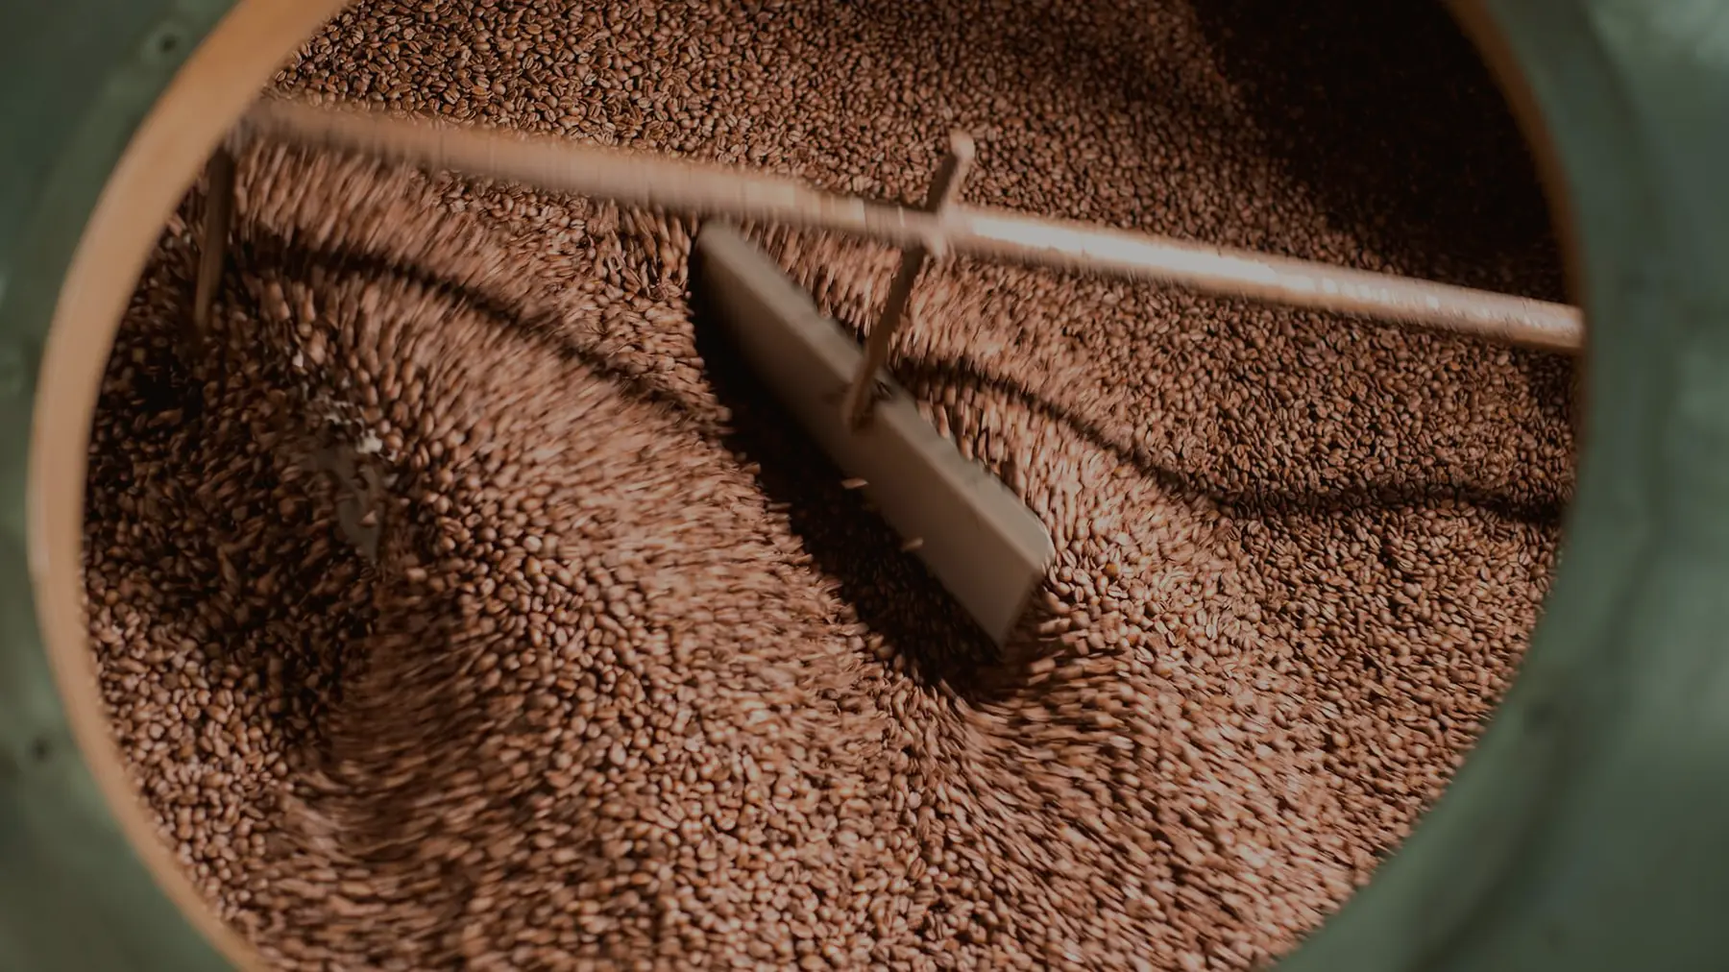
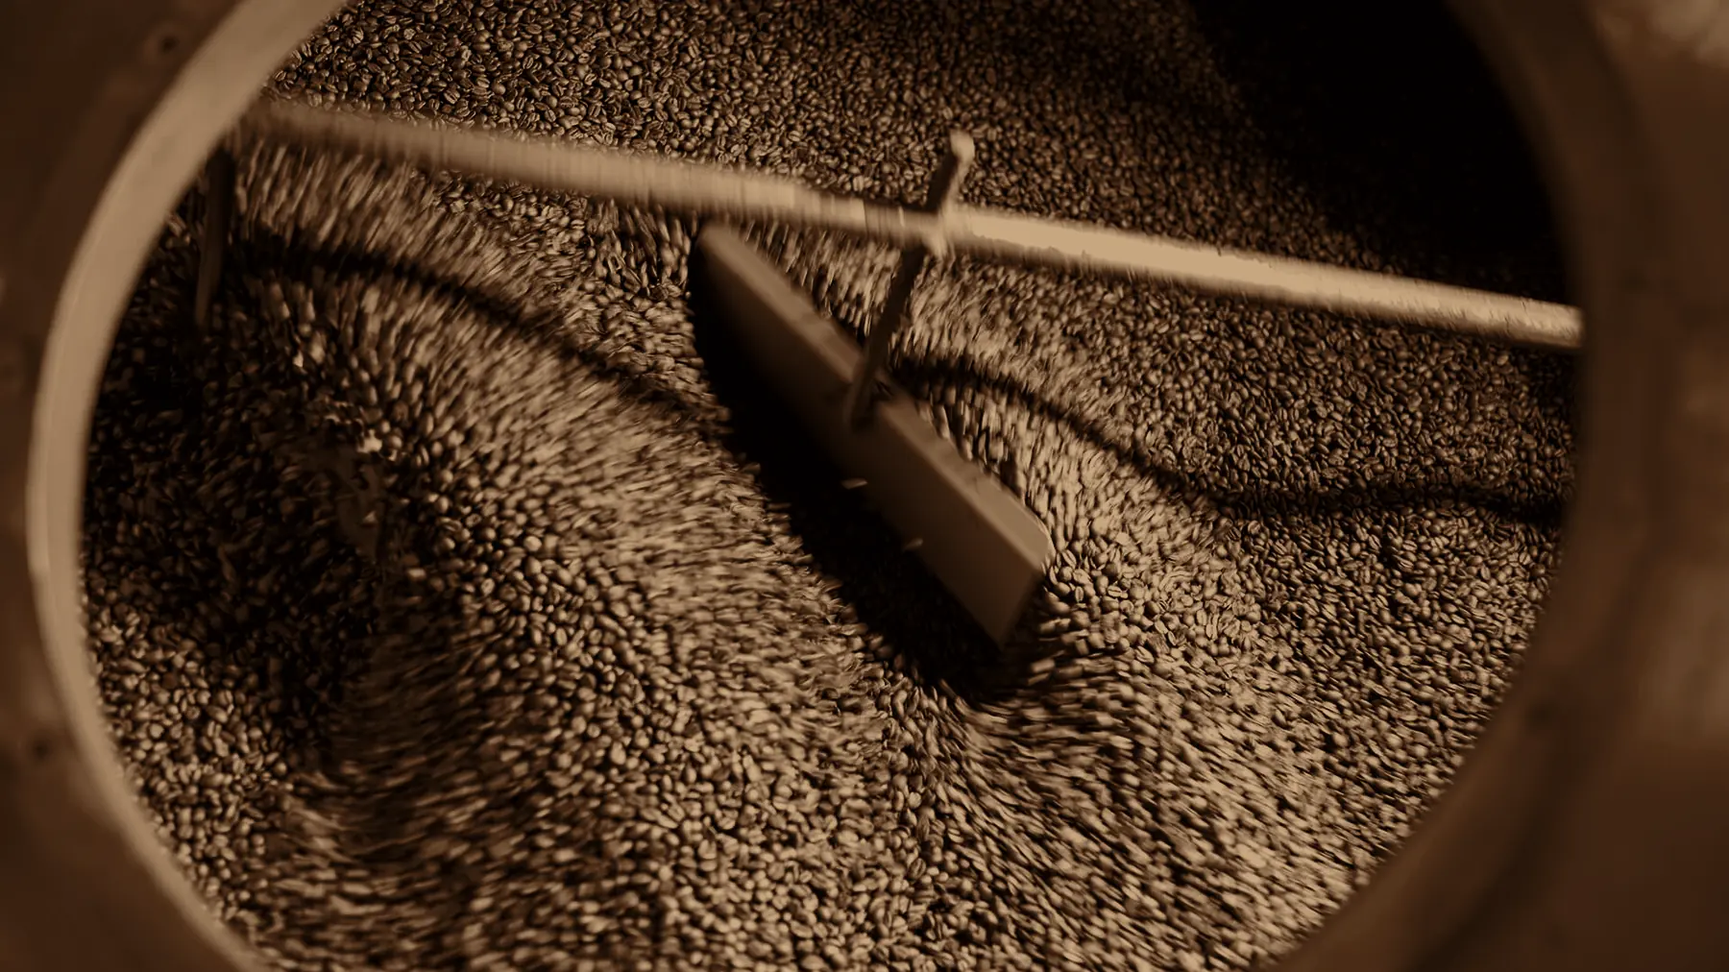
Dark sepia photo grade, origins show their own coffees, hot/cold/snack sections open on click

diff --git a/js/app.js b/js/app.js
@@ -42,6 +42,12 @@
     else scrollTo({ top: 0, behavior: reduce ? 'auto' : 'smooth' });
   });
 
+  /* ---------- recipe lookups ---------- */
+  const all = [];
+  Object.entries(D.recipes).forEach(([kind, groups]) => Object.entries(groups).forEach(([g, list]) => list.forEach(r => all.push({ ...r, kind, g }))));
+  const byId = id => all.find(r => r.id === id);
+  const kindOf = id => id[0] === 'c' ? 'cold' : id[0] === 's' ? 'snack' : 'hot';
+
   /* ---------- origins ---------- */
   const ogList = $('#ogList'), ogCard = $('#ogCard'), ogBg = $('#ogBg');
   D.regions.forEach((r, i) => {
@@ -60,11 +66,13 @@
     ogCard.innerHTML = `<h3>${r.name}</h3><p class="tag">${r.tag}</p><p>${r.text}</p>
       <div class="chips">${r.notes.map(n => `<span>${n}</span>`).join('')}</div>
       <div class="meta"><div><b>Altitude</b>${r.alt}</div><div><b>Process</b>${r.process}</div><div><b>Best for</b>${r.best}</div></div>
-      <div class="bars">${bar('Acidity', r.bars.acidity)}${bar('Body', r.bars.body)}${bar('Sweetness', r.bars.sweetness)}</div>`;
+      <div class="bars">${bar('Acidity', r.bars.acidity)}${bar('Body', r.bars.body)}${bar('Sweetness', r.bars.sweetness)}</div>
+      <div class="og-coffees"><b>Coffees from ${r.name}</b><div class="og-cl">${r.coffees.map(id => { const c = byId(id); return `<button class="og-c" data-id="${id}"><span>${c.name}</span><small>${c.time}</small></button>`; }).join('')}</div></div>`;
     requestAnimationFrame(() => requestAnimationFrame(() => $$('.bar i', ogCard).forEach(b => b.style.width = b.dataset.w + '%')));
     if (hasG) G.fromTo(ogCard.children, { y: 18, opacity: 0 }, { y: 0, opacity: 1, duration: .6, stagger: .06, ease: 'power3.out', overwrite: true });
   };
   ogList.addEventListener('click', e => { const b = e.target.closest('button'); if (b) showRegion(+b.dataset.i); });
+  ogCard.addEventListener('click', e => { const b = e.target.closest('.og-c'); if (b) openModal([b.dataset.id]); });
   ogList.addEventListener('mouseover', e => { const b = e.target.closest('button'); if (b && fine) showRegion(+b.dataset.i); });
   showRegion(0);
   if (fine && hasG && !reduce) {
@@ -95,11 +103,6 @@
   rRange.addEventListener('input', roastRender); roastRender();
 
   /* ---------- recipe sections (hot, cold, snacks) ---------- */
-  const all = [];
-  Object.entries(D.recipes).forEach(([kind, groups]) => Object.entries(groups).forEach(([g, list]) => list.forEach(r => all.push({ ...r, kind, g }))));
-  const byId = id => all.find(r => r.id === id);
-  const kindOf = id => id[0] === 'c' ? 'cold' : id[0] === 's' ? 'snack' : 'hot';
-
   $$('.rec').forEach(sec => {
     const kind = sec.dataset.kind, grid = $('.rec-grid', sec), tg = $('.toggle', sec), thumb = $('.thumb', tg);
     const labels = tg.dataset.labels.split('|'), btns = $$('button', tg);
@@ -123,6 +126,18 @@
       c.style.setProperty('--mx', (e.clientX - r.left) + 'px'); c.style.setProperty('--my', (e.clientY - r.top) + 'px');
     });
     grid.addEventListener('click', e => { const c = e.target.closest('.card'); if (c) openModal([c.dataset.id]); });
+    const openBtn = $('.rec-open', sec), body = $('.rec-body', sec); let isOpen = false;
+    $('.ro-count', openBtn).textContent = `· ${D.recipes[kind].a.length + D.recipes[kind].b.length} recipes`;
+    const setOpen = v => {
+      isOpen = v; openBtn.setAttribute('aria-expanded', v); openBtn.classList.toggle('on', v);
+      $('.ro-label', openBtn).textContent = v ? 'Hide recipes' : 'See recipes';
+      if (hasG && !reduce) {
+        G.to(body, { height: v ? 'auto' : 0, duration: .9, ease: 'power3.inOut', onComplete() { place(); ScrollTrigger.refresh(); } });
+        if (v) G.fromTo($$('.card', grid), { y: 30, opacity: 0 }, { y: 0, opacity: 1, duration: .7, stagger: .05, delay: .35, ease: 'power3.out' });
+      } else { body.style.height = v ? 'auto' : '0'; place(); }
+    };
+    openBtn.addEventListener('click', () => setOpen(!isOpen));
+    $('.h-big', sec).addEventListener('click', () => setOpen(!isOpen));
     place(); addEventListener('resize', place);
     if (document.fonts && document.fonts.ready) document.fonts.ready.then(place);
   });
@@ -206,7 +221,7 @@
   $('#stCoffee').dataset.count = all.filter(r => r.kind !== 'snacks').length;
   $('#stSnacks').dataset.count = all.filter(r => r.kind === 'snacks').length;
   const C = window.RR_CREDITS || {};
-  const labels = { hero: 'Hero', ceremony: 'Ethiopia', shelf: 'Kenya', drum: 'Roaster', beans: 'Beans', 'moody-cup': 'Cup', latte: 'Latte', cherries: 'Brazil and Journey', filter: 'India', levels: 'Roast levels', grinder: 'Grinder', origin: 'Colombia', pourover: 'Vietnam and Brew' };
+  const labels = { hero: 'Hero', ceremony: 'Ethiopia', colombia: 'Colombia', cherries: 'Brazil and Journey', vietnam: 'Vietnam', filter: 'India', kenya: 'Kenya', origin: 'Journey', drum: 'Roaster', brew: 'Brew' };
   $('#creditList').innerHTML = Object.entries(C).map(([k, v]) => `<li>${labels[k] || k}: <a href="${v.page}" target="_blank" rel="noopener">${v.title || 'Photo'}</a> by ${v.artist || 'Unknown'} (${v.license}), via Wikimedia Commons</li>`).join('');
 
   /* ---------- no animation library: show everything and stop ---------- */
@@ -249,7 +264,7 @@
   }));
 
   /* ---------- reveals and counters ---------- */
-  $$('section:not(.hero) .eyebrow, .h-med, .h-big.sm, .rec-sub, .toggle, .rec-grid, .roast-grid, .levels, .mol-inner > *, .og-list li, .stat, .jstep, .pairs-grid')
+  $$('section:not(.hero) .eyebrow, .h-med, .h-big.sm, .rec-sub, .rec-open, .roast-grid, .levels, .mol-inner > *, .og-list li, .stat, .jstep, .pairs-grid')
     .forEach(e => e.classList.add('reveal'));
   ScrollTrigger.batch('section:not(.hero) .reveal', {
     start: 'top 92%', once: true,

diff --git a/js/credits.js b/js/credits.js
@@ -1,1 +1,1 @@
-window.RR_CREDITS={"hero": {"title": "Coffee ceremony of Ethiopia and Eritrea 3", "artist": "ProtoplasmaKid", "license": "CC BY-SA 4.0", "page": "https://commons.wikimedia.org/wiki/File:Coffee_ceremony_of_Ethiopia_and_Eritrea_3.jpg"}, "ceremony": {"title": "Coffee ceremony of Ethiopia and Eritrea 1", "artist": "ProtoplasmaKid", "license": "CC BY-SA 4.0", "page": "https://commons.wikimedia.org/wiki/File:Coffee_ceremony_of_Ethiopia_and_Eritrea_1.jpg"}, "shelf": {"title": "Coffee ceremony of Ethiopia and Eritrea 4", "artist": "ProtoplasmaKid", "license": "CC BY-SA 4.0", "page": "https://commons.wikimedia.org/wiki/File:Coffee_ceremony_of_Ethiopia_and_Eritrea_4.jpg"}, "drum": {"title": "CaffÃ¨ roasting", "artist": "MarcoMotti123", "license": "CC BY-SA 4.0", "page": "https://commons.wikimedia.org/wiki/File:Caff%C3%A8_roasting.jpg"}, "beans": {"title": "Roasted coffee beans", "artist": "MarkSweep", "license": "Public domain", "page": "https://commons.wikimedia.org/wiki/File:Roasted_coffee_beans.jpg"}, "moody-cup": {"title": "Black coffee cup (Unsplash)", "artist": "Ross Parmly rparmly", "license": "CC0", "page": "https://commons.wikimedia.org/wiki/File:Black_coffee_cup_(Unsplash).jpg"}, "latte": {"title": "Latte art at Balzac's", "artist": "Linda N. from Chicago, USA", "license": "CC BY 2.0", "page": "https://commons.wikimedia.org/wiki/File:Latte_art_at_Balzac%27s.jpg"}, "cherries": {"title": "Coffee-cherries-green-coffee-tarrazu-costa-rica", "artist": "Tarrazu at en.wikipedia", "license": "Public domain", "page": "https://commons.wikimedia.org/wiki/File:Coffee-cherries-green-coffee-tarrazu-costa-rica.jpg"}, "filter": {"title": "South Indian Filter Kaapi aka Coffee 04", "artist": "Nizil Shah", "license": "CC BY-SA 4.0", "page": "https://commons.wikimedia.org/wiki/File:South_Indian_Filter_Kaapi_aka_Coffee_04.jpg"}, "levels": {"title": "Roasting Coffee Progression", "artist": "Nachotacl", "license": "CC BY-SA 4.0", "page": "https://commons.wikimedia.org/wiki/File:Roasting_Coffee_Progression.png"}, "grinder": {"title": "Coffee Grinder Zassenhaus", "artist": "Benjamin Hell (User:Siebengang)", "license": "CC BY-SA 3.0", "page": "https://commons.wikimedia.org/wiki/File:Coffee_Grinder_Zassenhaus.jpg"}, "origin": {"title": "Camino de Costa Roca Coffee plantation hike", "artist": "Pigment-Ink", "license": "CC BY-SA 4.0", "page": "https://commons.wikimedia.org/wiki/File:Camino_de_Costa_Roca_Coffee_plantation_hike.jpg"}, "pourover": {"title": "Coffee Pour Over Setup", "artist": "Cerebral726", "license": "CC BY-SA 4.0", "page": "https://commons.wikimedia.org/wiki/File:Coffee_Pour_Over_Setup.jpg"}};
+window.RR_CREDITS={"hero": {"title": "Coffee ceremony of Ethiopia and Eritrea 3", "artist": "ProtoplasmaKid", "license": "CC BY-SA 4.0", "page": "https://commons.wikimedia.org/wiki/File:Coffee_ceremony_of_Ethiopia_and_Eritrea_3.jpg"}, "ceremony": {"title": "Coffee ceremony of Ethiopia and Eritrea 1", "artist": "ProtoplasmaKid", "license": "CC BY-SA 4.0", "page": "https://commons.wikimedia.org/wiki/File:Coffee_ceremony_of_Ethiopia_and_Eritrea_1.jpg"}, "colombia": {"title": "Coffee Beans macro 5", "artist": "Daniel Schwen", "license": "CC BY 3.0", "page": "https://commons.wikimedia.org/wiki/File:Coffee_Beans_macro_5.jpg"}, "cherries": {"title": "Coffee-cherries-green-coffee-tarrazu-costa-rica", "artist": "Tarrazu at en.wikipedia", "license": "Public domain", "page": "https://commons.wikimedia.org/wiki/File:Coffee-cherries-green-coffee-tarrazu-costa-rica.jpg"}, "vietnam": {"title": "Ca Phe Sua Da", "artist": "Clarin", "license": "CC BY 2.5", "page": "https://commons.wikimedia.org/wiki/File:Ca_Phe_Sua_Da.jpg"}, "filter": {"title": "South Indian Filter Kaapi aka Coffee 04", "artist": "Nizil Shah", "license": "CC BY-SA 4.0", "page": "https://commons.wikimedia.org/wiki/File:South_Indian_Filter_Kaapi_aka_Coffee_04.jpg"}, "kenya": {"title": "Starr-140917-1898-Coffea arabica-steaming hot coffee in cabin-Holua Hilton HNP-Maui (24950780600)", "artist": "Forest and Kim Starr", "license": "CC BY 3.0 us", "page": "https://commons.wikimedia.org/wiki/File:Starr-140917-1898-Coffea_arabica-steaming_hot_coffee_in_cabin-Holua_Hilton_HNP-Maui_(24950780600).jpg"}, "origin": {"title": "Camino de Costa Roca Coffee plantation hike", "artist": "Pigment-Ink", "license": "CC BY-SA 4.0", "page": "https://commons.wikimedia.org/wiki/File:Camino_de_Costa_Roca_Coffee_plantation_hike.jpg"}, "drum": {"title": "CaffÃ¨ roasting", "artist": "MarcoMotti123", "license": "CC BY-SA 4.0", "page": "https://commons.wikimedia.org/wiki/File:Caff%C3%A8_roasting.jpg"}, "brew": {"title": "Black coffee cup (Unsplash)", "artist": "Ross Parmly rparmly", "license": "CC0", "page": "https://commons.wikimedia.org/wiki/File:Black_coffee_cup_(Unsplash).jpg"}};

diff --git a/js/data.js b/js/data.js
@@ -5,27 +5,27 @@ window.RR = {
     { id:'ethiopia', name:'Ethiopia', tag:'Where the story began', alt:'1,500–2,200 m', process:'Natural & Washed',
       img:'images/ceremony.webp', notes:['Blueberry','Jasmine','Bergamot'], bars:{acidity:5,body:2,sweetness:4},
       text:'Legend says a goat herder named Kaldi noticed his goats dancing after eating red cherries. Whatever the truth, Ethiopia is where coffee began. The cups are light, floral and fruity. In a traditional coffee ceremony the beans are roasted right in front of you and the smoke fills the room.',
-      best:'Pour-over and V60' },
+      best:'Pour-over and V60', coffees:['h13','h14','h7'] },
     { id:'colombia', name:'Colombia', tag:'Balanced and sweet', alt:'1,200–2,000 m', process:'Washed',
-      img:'images/origin.webp', notes:['Caramel','Red apple','Cocoa'], bars:{acidity:3,body:3,sweetness:4},
+      img:'images/colombia.webp', notes:['Caramel','Red apple','Cocoa'], bars:{acidity:3,body:3,sweetness:4},
       text:'Hand-picked on steep mountain slopes. Two harvests a year mean fresh coffee almost all year round. The taste is sweet and rounded, never harsh: the easiest origin to love every single day.',
-      best:'Latte, filter, French press' },
+      best:'Latte, filter, French press', coffees:['h15','h12','c8'] },
     { id:'brazil', name:'Brazil', tag:'The world’s biggest grower', alt:'800–1,300 m', process:'Natural',
       img:'images/cherries.webp', notes:['Hazelnut','Dark chocolate','Peanut brittle'], bars:{acidity:2,body:4,sweetness:4},
       text:'Brazil grows more coffee than any other country. The cherries dry whole in the sun (the natural process), which builds sweetness and body. It is the backbone of most espresso blends.',
-      best:'Espresso, cappuccino, moka pot' },
+      best:'Espresso, cappuccino, moka pot', coffees:['h16','h11','h9'] },
     { id:'vietnam', name:'Vietnam', tag:'Bold, strong and sweet', alt:'500–1,500 m', process:'Robusta, Washed & Natural',
-      img:'images/pourover.webp', notes:['Roasted nut','Cocoa','Bold'], bars:{acidity:1,body:5,sweetness:2},
+      img:'images/vietnam.webp', notes:['Roasted nut','Cocoa','Bold'], bars:{acidity:1,body:5,sweetness:2},
       text:'The second-largest producer, and mostly robusta: strong, bold and high in caffeine. It is dripped slowly through a small steel phin filter and sweetened with condensed milk. That cup is called ca phe sua da.',
-      best:'Phin filter, iced coffee' },
+      best:'Phin filter, iced coffee', coffees:['c13','h17','c3'] },
     { id:'india', name:'India', tag:'Grown in the shade of spices', alt:'800–1,500 m', process:'Washed, Natural, Monsooned',
       img:'images/filter.webp', notes:['Spice','Dark chocolate','Earthy'], bars:{acidity:2,body:4,sweetness:3},
       text:'Grown under shade in Chikmagalur, Coorg and Wayanad, among cardamom, pepper and banana trees. Monsooned Malabar is aged in damp monsoon winds for months. Legend says Baba Budan smuggled seven beans out of Yemen, and in the south, filter kaapi is a daily ritual.',
-      best:'Filter kaapi, moka pot' },
+      best:'Filter kaapi, moka pot', coffees:['h2','h3','c1'] },
     { id:'kenya', name:'Kenya', tag:'Bright, juicy, vivid', alt:'1,400–2,100 m', process:'Washed',
-      img:'images/shelf.webp', notes:['Blackcurrant','Grapefruit','Tomato'], bars:{acidity:5,body:3,sweetness:3},
+      img:'images/kenya.webp', notes:['Blackcurrant','Grapefruit','Tomato'], bars:{acidity:5,body:3,sweetness:3},
       text:'Red soil and high altitude give Kenyan coffee a vivid character: blackcurrant sweetness with a citrus snap. It is for people who want a cup that tastes like something unexpected.',
-      best:'V60, AeroPress, cold brew' }
+      best:'V60, AeroPress, cold brew', coffees:['h10','c6','h8'] }
   ],
 
   roasts: [

diff --git a/index.html b/index.html
@@ -102,7 +102,7 @@
           <p>Green beans are roasted in a spinning drum, usually between 180 and 240 °C. They turn yellow, then brown, and around 196 °C you hear the first crack, like popcorn. Time and temperature decide light, medium or dark.</p></div>
       </article>
       <article class="jstep">
-        <figure><img src="images/ceremony.webp" alt="A small cup of coffee served on a saucer" loading="lazy"></figure>
+        <figure><img src="images/brew.webp" alt="A cup of coffee on a dark wooden table" loading="lazy"></figure>
         <div class="jtxt"><span class="jn">04</span><h3>Brew</h3>
           <p>Fresh grinding, the right water temperature and a little patience. Hot water pulls the oils and sugars out of the grounds, and the first sip completes the ritual.</p></div>
       </article>
@@ -148,8 +148,11 @@
     <p class="eyebrow">Hot Coffee</p>
     <h2 class="h-big sm">Served <i>Hot</i></h2>
     <p class="rec-sub">Start with what is in your kitchen. No machine? You can still make a great cup.</p>
+    <button class="rec-open" aria-expanded="false"><span class="ro-label">See recipes</span><span class="ro-count"></span><i class="ro-ico"></i></button>
+    <div class="rec-body"><div class="rec-body-in">
     <div class="toggle" data-labels="No Machine|With Machine"><button class="on" data-g="a"></button><button data-g="b"></button><i class="thumb"></i></div>
     <div class="rec-grid"></div>
+    </div></div>
   </div>
 </section>
 
@@ -159,8 +162,11 @@
     <p class="eyebrow">Cold Coffee</p>
     <h2 class="h-big sm">Poured <i>Cold</i></h2>
     <p class="rec-sub">Jar shakes, whipped foam and slow cold brew. Most of these need nothing more than a glass.</p>
+    <button class="rec-open" aria-expanded="false"><span class="ro-label">See recipes</span><span class="ro-count"></span><i class="ro-ico"></i></button>
+    <div class="rec-body"><div class="rec-body-in">
     <div class="toggle" data-labels="No Machine|With Machine"><button class="on" data-g="a"></button><button data-g="b"></button><i class="thumb"></i></div>
     <div class="rec-grid"></div>
+    </div></div>
   </div>
 </section>
 
@@ -170,8 +176,11 @@
     <p class="eyebrow">Snacks</p>
     <h2 class="h-big sm">Something <i>on the side</i></h2>
     <p class="rec-sub">Simple, vegetarian and egg-free. Pick the tawa and kadhai ones, or switch to oven and microwave.</p>
+    <button class="rec-open" aria-expanded="false"><span class="ro-label">See recipes</span><span class="ro-count"></span><i class="ro-ico"></i></button>
+    <div class="rec-body"><div class="rec-body-in">
     <div class="toggle" data-labels="No Oven|Oven or Microwave"><button class="on" data-g="a"></button><button data-g="b"></button><i class="thumb"></i></div>
     <div class="rec-grid"></div>
+    </div></div>
   </div>
 </section>
 
@@ -244,6 +253,7 @@
 <script src="https://cdnjs.cloudflare.com/ajax/libs/gsap/3.12.5/ScrollTrigger.min.js"></script>
 <script src="https://cdn.jsdelivr.net/npm/lenis@1.1.13/dist/lenis.min.js"></script>
 <script src="js/data.js"></script>
+<script src="js/more.js"></script>
 <script src="js/credits.js"></script>
 <script src="js/app.js"></script>
 </body>

diff --git a/css/style.css b/css/style.css
@@ -177,7 +177,7 @@ main,footer{position:relative;z-index:2}
 .rec .h-big i{font-family:var(--serif);font-style:italic;font-weight:400}
 .rec-inner{position:relative;max-width:1200px;margin:0 auto}
 .rec-sub{color:var(--mute);max-width:540px;margin-top:1.2rem}
-.toggle{position:relative;display:inline-flex;margin:2rem 0;padding:5px;border:1px solid var(--line);border-radius:100px;background:rgba(0,0,0,.25)}
+.toggle{position:relative;display:inline-flex;margin:0 0 2rem;padding:5px;border:1px solid var(--line);border-radius:100px;background:rgba(0,0,0,.25)}
 .toggle button{position:relative;z-index:1;padding:.75rem 1.8rem;font-size:.76rem;letter-spacing:.2em;text-transform:uppercase;color:var(--mute);transition:color .4s;white-space:nowrap}
 .toggle button.on{color:#10100f}
 .toggle .thumb{position:absolute;top:5px;bottom:5px;left:5px;width:var(--tw,50%);border-radius:100px;background:var(--acc);transition:transform .55s var(--ease),width .55s var(--ease),background .6s}
@@ -192,6 +192,29 @@ main,footer{position:relative;z-index:2}
 .card p{color:#cdbfab;font-size:.92rem}
 .card .foot2{display:flex;justify-content:space-between;gap:1rem;margin-top:auto;padding-top:1.3rem;font-size:.68rem;letter-spacing:.18em;text-transform:uppercase;color:var(--mute)}
 .card .foot2 b{color:var(--acc);font-weight:400;white-space:nowrap}
+
+
+/* collapsed recipe sections */
+.rec .h-big{cursor:pointer}
+.rec-open{display:inline-flex;align-items:center;gap:1rem;margin-top:2rem;padding:.9rem 1.6rem;border:1px solid var(--acc);border-radius:100px;font-size:.76rem;letter-spacing:.22em;text-transform:uppercase;color:var(--acc);transition:background .35s,color .35s}
+.rec-open:hover,.rec-open.on{background:var(--acc);color:#10100f}
+.ro-count{opacity:.7;letter-spacing:.14em}
+.ro-ico{position:relative;width:14px;height:14px;transition:transform .5s var(--ease)}
+.ro-ico::before,.ro-ico::after{content:"";position:absolute;left:0;right:0;top:50%;height:1.5px;background:currentColor;margin-top:-.75px}
+.ro-ico::after{transform:rotate(90deg)}
+.rec-open.on .ro-ico{transform:rotate(45deg)}
+.rec-body{height:0;overflow:hidden}
+.rec-body-in{padding-top:2rem}
+
+/* coffees from each origin */
+.og-coffees{margin-top:1.6rem;padding-top:1.4rem;border-top:1px solid var(--line)}
+.og-coffees>b{display:block;font-size:.66rem;letter-spacing:.26em;text-transform:uppercase;color:var(--mute);font-weight:400;margin-bottom:.8rem}
+.og-cl{display:grid;grid-template-columns:repeat(3,minmax(0,1fr));gap:.7rem}
+.og-c{text-align:left;padding:.9rem 1rem;border:1px solid var(--line);border-radius:14px;background:rgba(255,255,255,.03);transition:border-color .3s,background .3s,transform .4s var(--ease)}
+.og-c:hover{border-color:var(--copper);background:rgba(201,139,90,.1);transform:translateY(-3px)}
+.og-c span{display:block;font-family:var(--serif);font-size:1.2rem;line-height:1.15}
+.og-c small{display:block;margin-top:.3rem;font-size:.62rem;letter-spacing:.14em;text-transform:uppercase;color:var(--copper)}
+@media(max-width:700px){.og-cl{grid-template-columns:1fr}}
 
 /* pairs */
 .pairs{padding:7rem clamp(1.2rem,6vw,6rem);background:var(--bg)}

diff --git a/js/more.js b/js/more.js
@@ -1,0 +1,26 @@
+/* Extra recipes. Loaded after data.js and added to the same lists. All vegetarian, no egg. */
+(() => {
+  const R = window.RR.recipes;
+  R.hot.a.push(
+    { id:'h13', name:'Ethiopian-Style Spiced Coffee', time:'12 min', gear:'Saucepan & strainer', desc:'Inspired by the Ethiopian coffee ceremony: strong, spiced, shared.',
+      ing:['3 tbsp ground coffee','2 cups water','1 cardamom pod, crushed','2 cloves','Small stick of cinnamon','Sugar to taste'],
+      steps:['Bring the water to a boil with the cardamom, cloves and cinnamon.',['Simmer so the spices release their flavour.',120],'Take the pan off the heat and stir in the coffee.',['Let it steep.',240],'Strain into small cups and add sugar. Serve with a second round, as in the ceremony.'] },
+    { id:'h14', name:'Ginger Coffee', time:'8 min', gear:'Saucepan', desc:'Warm, spicy and perfect for a cold evening.',
+      ing:['1 cup water','Small piece of ginger, crushed','2 tsp instant coffee','1–2 tsp jaggery or sugar','A splash of milk, optional'],
+      steps:[['Boil the water with the ginger.',180],'Switch off the heat and stir in the coffee.','Add the jaggery or sugar, and the milk if you like.','Strain into a cup and serve hot.'] },
+    { id:'h15', name:'Colombian-Style Tinto', time:'8 min', gear:'Saucepan & strainer', desc:'Black coffee, lightly sweetened with jaggery.',
+      ing:['2 tbsp ground coffee','1½ cups water','1 tbsp grated jaggery'],
+      steps:['Bring the water and jaggery to a boil.','Take it off the heat and add the coffee.',['Stir and let it steep.',180],'Strain into small cups and serve.'] },
+    { id:'h16', name:'Brazilian Cafezinho', time:'8 min', gear:'Saucepan & cloth or strainer', desc:'A small, strong and sweet cup, served after meals.',
+      ing:['1½ cups water','2 tbsp sugar','3 tbsp ground coffee'],
+      steps:['Boil the water with the sugar until it dissolves.','Take it off the heat and stir in the coffee.',['Let it rest for a moment.',60],'Strain through a cloth or fine strainer into small cups.'] },
+    { id:'h17', name:'Condensed Milk Coffee (Hot)', time:'4 min', gear:'Cup & spoon', desc:'Sweet, creamy and very Vietnamese.',
+      ing:['2 tbsp sweetened condensed milk','2 tsp instant coffee','150 ml hot water'],
+      steps:['Put the condensed milk and coffee in a cup.','Pour in the hot water.','Stir until smooth and creamy.'] }
+  );
+  R.cold.a.push(
+    { id:'c13', name:'Vietnamese Iced Coffee', time:'5 min', gear:'Glass & spoon', desc:'Ca phe sua da: strong coffee over sweet condensed milk and ice.',
+      ing:['2 tbsp sweetened condensed milk','3 tsp instant coffee','60 ml hot water','Ice'],
+      steps:['Put the condensed milk in a tall glass.','Dissolve the coffee in the hot water to make it strong and pour it over the milk.','Stir well.','Fill the glass with ice and stir again.'] }
+  );
+})();
